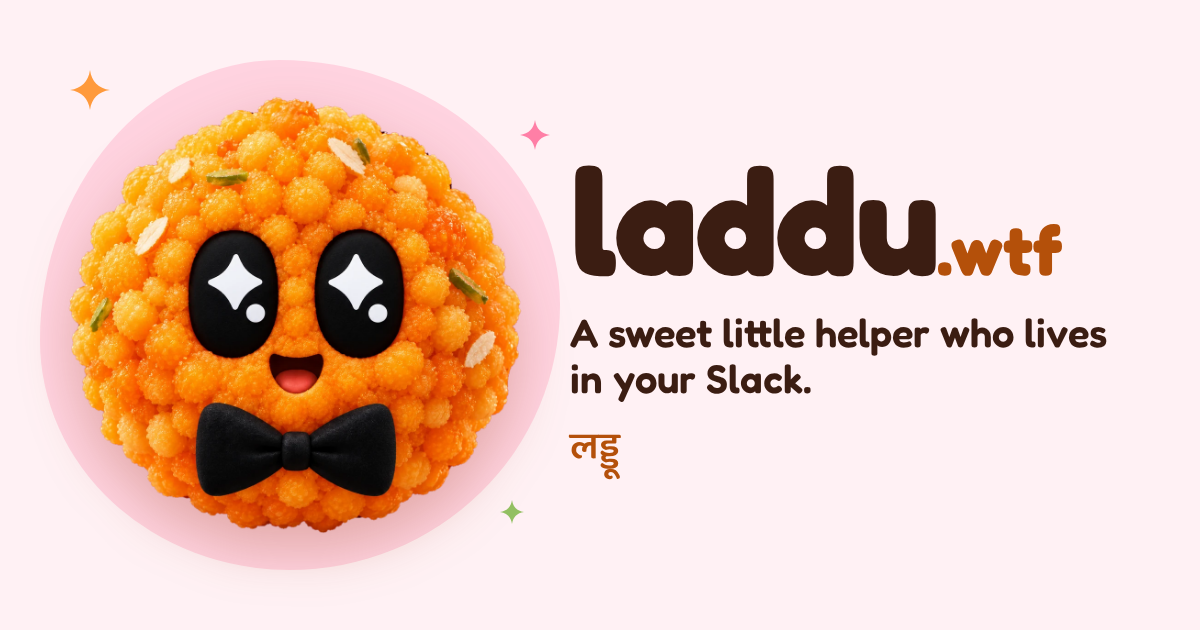
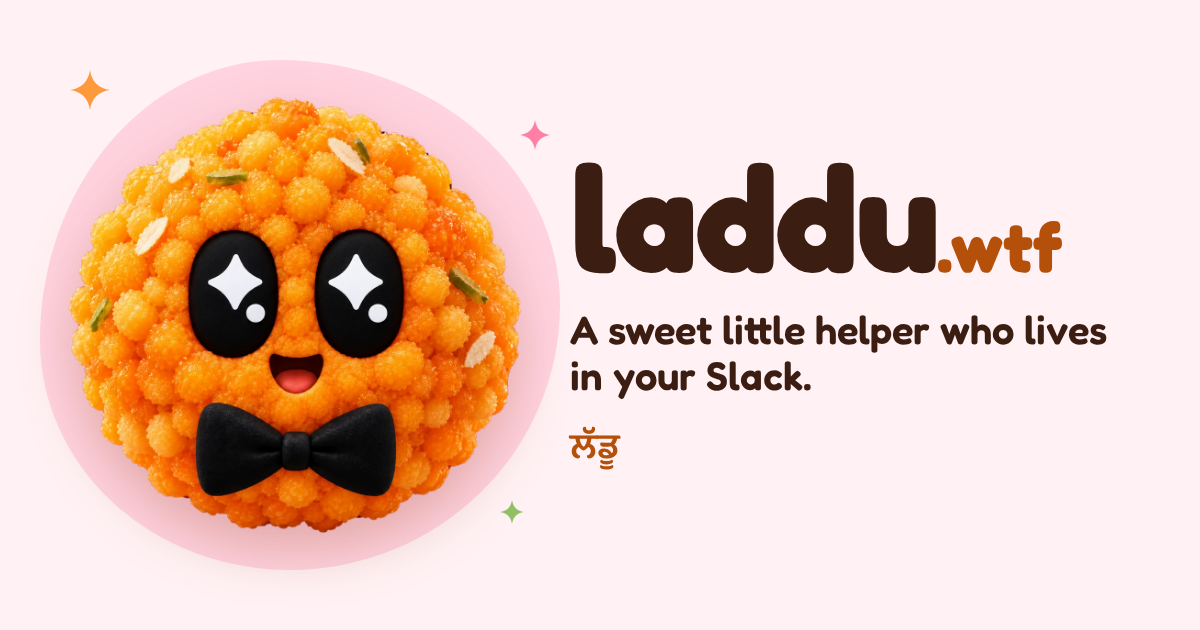
laddu.wtf: Punjabi names, Vercel config, install.sh served by the site
ਲੱਡੂ and the gang's names are in Gurmukhi now (Baloo Paaji 2), the OG image
too.

The site builds through build.ts, so the Bun that runs it is the Bun that
bundles; vercel.json pins 1.4.4 for install and build, and serves
install.sh as a shell script. That makes laddu.wtf the install host, so
the release workflow only publishes to npm (NPM_TOKEN) and the docs say
curl -fsSL https://laddu.wtf/install.sh | sh.

diff --git a/apps/web/index.html b/apps/web/index.html
@@ -38,7 +38,7 @@
 		<link rel="preconnect" href="https://fonts.gstatic.com" crossorigin />
 		<link
 			rel="stylesheet"
-			href="https://fonts.googleapis.com/css2?family=Baloo+2:wght@600&family=Fredoka:wght@500;600;700&family=Nunito:wght@500;700;800&display=swap"
+			href="https://fonts.googleapis.com/css2?family=Baloo+Paaji+2:wght@600&family=Fredoka:wght@500;600;700&family=Nunito:wght@500;700;800&display=swap"
 		/>
 		<link rel="stylesheet" href="./src/styles.css" />
 		<script type="module" src="./src/main.js"></script>
@@ -80,7 +80,7 @@
 					<div class="hero-copy">
 						<p class="hello">
 							Hi, I’m laddu
-							<span lang="hi" class="deva">लड्डू</span>
+							<span lang="pa" class="pa">ਲੱਡੂ</span>
 						</p>
 						<h1>A sweet little helper who lives in your Slack.</h1>
 						<p class="lede">
@@ -382,7 +382,7 @@
 								/>
 							</div>
 							<h3>
-								Jalebi <span lang="hi" class="deva">जलेबी</span>
+								Jalebi <span lang="pa" class="pa">ਜਲੇਬੀ</span>
 							</h3>
 							<p>Goes round in circles so you don’t have to.</p>
 						</li>
@@ -398,7 +398,7 @@
 							</div>
 							<h3>
 								Kaju Katli
-								<span lang="hi" class="deva">काजू कतली</span>
+								<span lang="pa" class="pa">ਕਾਜੂ ਕਤਲੀ</span>
 							</h3>
 							<p>Sharp edges, silver lining.</p>
 						</li>
@@ -414,7 +414,7 @@
 							</div>
 							<h3>
 								Gulab Jamun
-								<span lang="hi" class="deva">गुलाब जामुन</span>
+								<span lang="pa" class="pa">ਗੁਲਾਬ ਜਾਮਣ</span>
 							</h3>
 							<p>Soaks up every last detail.</p>
 						</li>
@@ -430,7 +430,7 @@
 							</div>
 							<h3>
 								Rasgulla
-								<span lang="hi" class="deva">रसगुल्ला</span>
+								<span lang="pa" class="pa">ਰਸਗੁੱਲਾ</span>
 							</h3>
 							<p>Soft, squishy, always bounces back.</p>
 						</li>

diff --git a/apps/web/build.ts b/apps/web/build.ts
@@ -1,0 +1,29 @@
+/**
+ * Builds laddu.wtf into dist/: the page bundled from index.html, plus the files fetched by their
+ * own names (the OG image, robots.txt, favicon.ico) and the CLI's install.sh, so
+ * `curl -fsSL https://laddu.wtf/install.sh | sh` works. Run it with the Bun that should build it
+ * (vercel.json pins one), since the bundling happens in this process.
+ */
+const root = Bun.fileURLToPath(new URL("./", import.meta.url))
+const dist = `${root}dist`
+
+await Bun.$`rm -rf ${dist}`
+const result = await Bun.build({
+	entrypoints: [`${root}index.html`],
+	outdir: dist,
+	minify: true,
+})
+if (!result.success) {
+	for (const log of result.logs) console.error(log)
+	process.exit(1)
+}
+
+for (const [from, to] of [
+	["public/og.png", "og.png"],
+	["public/robots.txt", "robots.txt"],
+	["public/favicon.ico", "favicon.ico"],
+	["../cli/install.sh", "install.sh"],
+])
+	await Bun.write(`${dist}/${to}`, Bun.file(`${root}${from}`))
+
+console.log(`Built laddu.wtf with Bun ${Bun.version} in ${dist}`)

diff --git a/apps/web/src/styles.css b/apps/web/src/styles.css
@@ -20,7 +20,7 @@
 	--radius: 32px;
 	--display: "Fredoka", "Nunito", system-ui, sans-serif;
 	--body: "Nunito", system-ui, sans-serif;
-	--deva: "Baloo 2", "Noto Sans Devanagari", sans-serif;
+	--gurmukhi: "Baloo Paaji 2", "Noto Sans Gurmukhi", sans-serif;
 }
 
 @media (prefers-color-scheme: dark) {
@@ -100,8 +100,8 @@ p {
 	margin: 0;
 }
 
-.deva {
-	font-family: var(--deva);
+.pa {
+	font-family: var(--gurmukhi);
 	font-weight: 600;
 }
 
@@ -292,7 +292,7 @@ p {
 	font-size: 1.05rem;
 }
 
-.hello .deva {
+.hello .pa {
 	color: var(--accent);
 	font-size: 1.15rem;
 	line-height: 1;
@@ -983,7 +983,7 @@ p {
 	margin-top: 16px;
 }
 
-.friend h3 .deva {
+.friend h3 .pa {
 	display: block;
 	margin-top: 4px;
 	font-size: 1.05rem;

diff --git a/docs/INSTALLER.md b/docs/INSTALLER.md
@@ -7,7 +7,7 @@ Status: built (`apps/cli`). Not yet run end to end against a real Slack workspac
 On a blank Linux server, one command gets you to a working bot you can DM in Slack:
 
 ```sh
-curl -fsSL https://<s3-host>/install.sh | sh
+curl -fsSL https://laddu.wtf/install.sh | sh
 ```
 
 No second command. The script installs everything and runs the whole setup in the same session.
@@ -24,9 +24,11 @@ installed and bunx's copy is a throwaway cache, then runs `laddu setup` (`apps/c
   the bot from `apps/api`, so one package has everything. Its bins: `laddu`, and `create-laddu`.
 - **`apps/web`**: the marketing website, laddu.wtf.
 - **`apps/api`**: the bot, unchanged as an app; it gets built into the CLI package.
-- **`install.sh`**: a small POSIX shell bootstrap, versioned in the repo and uploaded to S3.
+- **`install.sh`**: a small POSIX shell bootstrap, versioned in the repo and served by the site
+  (`apps/web/build.ts` copies it into `dist/`).
 
-CI publishes the npm package and uploads `install.sh` to S3 whenever a git tag is pushed. The
+CI publishes the npm package whenever a version tag is pushed; the site serves `install.sh` from
+the same commit once it deploys. The
 installed package is code only and never written to; each instance keeps its own state.
 
 ## Root vs. user
@@ -92,7 +94,7 @@ The default name is `laddu`. Each instance directory holds `.env`, `.data/`, `AG
 - `apps/cli` builds a package with the CLI entry point plus the bot and its non-code files
   (manifest, `agent-home`, `runtime`, `assets`).
 - `login` gains the paste-the-redirect-URL mode.
-- CI: on each tag, publish to npm and upload `install.sh` to S3.
+- CI: on each tag, publish to npm.
 
 ## How it's built
 
@@ -112,4 +114,3 @@ The default name is `laddu`. Each instance directory holds `.env`, `.data/`, `AG
 ## Open questions
 
 - **Licence:** the package is published as `UNLICENSED` until we pick one.
-- **Install host:** the S3 address for `install.sh` (`<install-host>` in the docs).

diff --git a/apps/cli/README.md b/apps/cli/README.md
@@ -3,7 +3,7 @@
 Set up and run **laddu**, a Slack assistant backed by Codex on your ChatGPT plan, on a Linux server.
 
 ```sh
-curl -fsSL https://<install-host>/install.sh | sh
+curl -fsSL https://laddu.wtf/install.sh | sh
 ```
 
 That one command installs Docker and Bun if they're missing, installs this CLI, and runs

diff --git a/docs/SETUP.md b/docs/SETUP.md
@@ -3,7 +3,7 @@
 ## On a server: one command
 
 ```sh
-curl -fsSL https://<install-host>/install.sh | sh
+curl -fsSL https://laddu.wtf/install.sh | sh
 ```
 
 This installs Docker and Bun if they're missing, installs the `laddu` CLI (`apps/cli`), and runs
